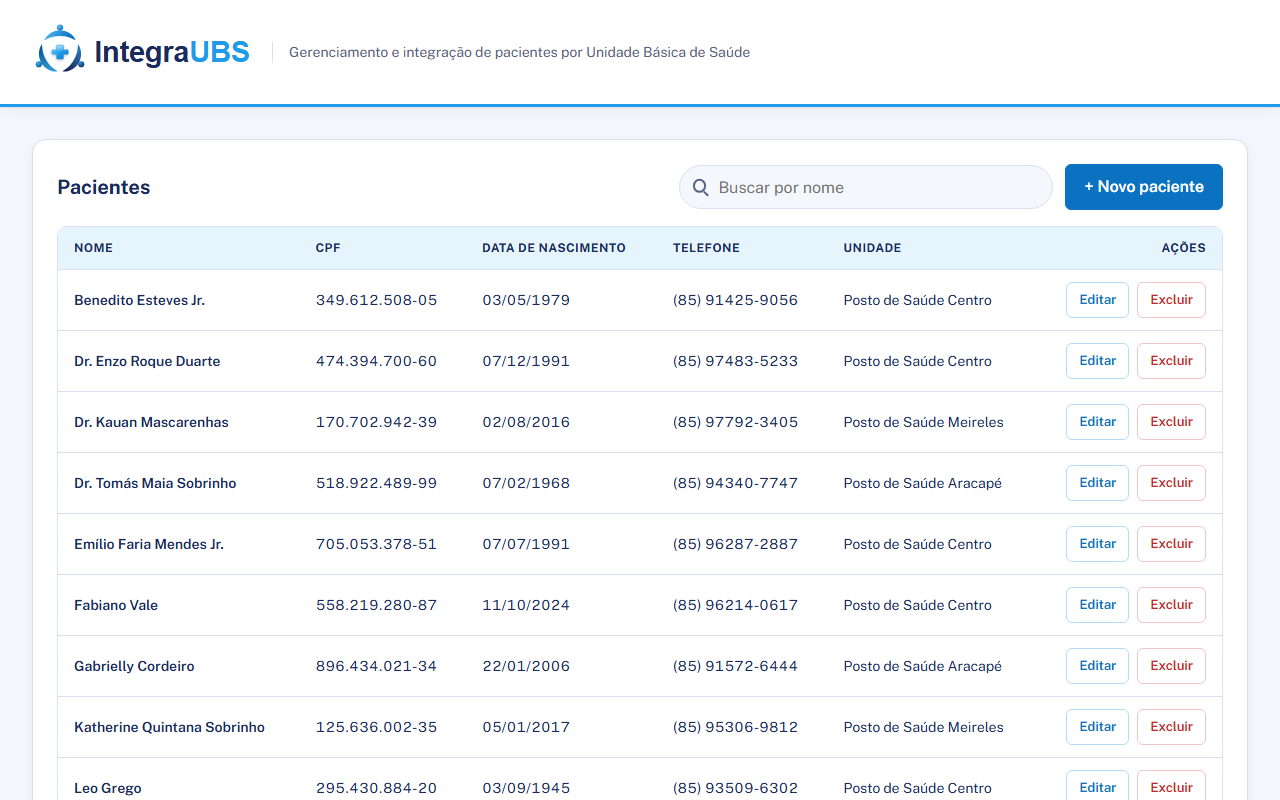
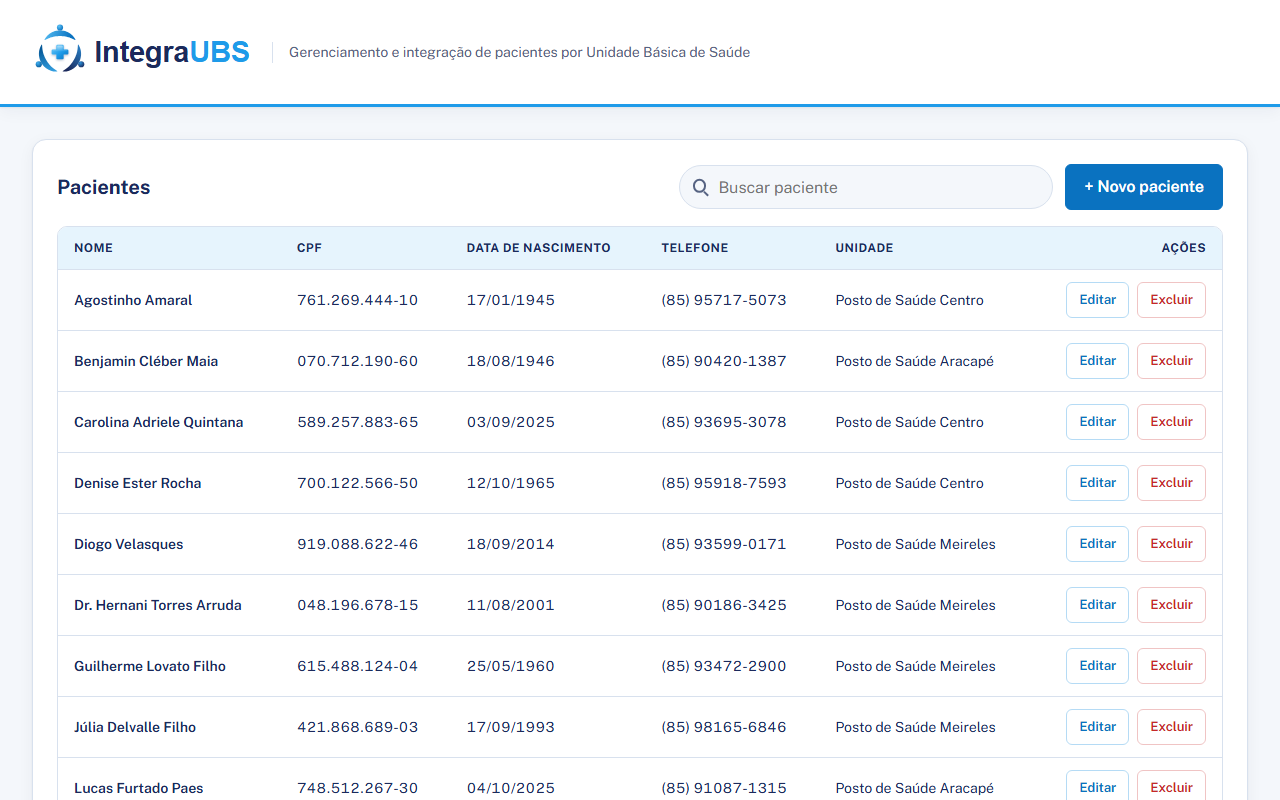
docs(readme): atualiza print, testes, clone

diff --git a/README.md b/README.md
@@ -23,8 +23,21 @@ O backend é uma API em Laravel que responde em JSON. O frontend é HTML, CSS e 
 
 1. Clone o repositório e instale as dependências:
 
+Por HTTPS:
+
+```bash
+git clone https://github.com/Pedro-HS-Rodrigues/IntegraUBS-Desafio-ConectaSUS.git
+```
+
+Ou por SSH, se você tiver uma chave SSH cadastrada no GitHub:
+
 ```bash
 git clone git@github.com:Pedro-HS-Rodrigues/IntegraUBS-Desafio-ConectaSUS.git
+```
+
+Depois:
+
+```bash
 cd IntegraUBS-Desafio-ConectaSUS
 composer install
 ```
@@ -141,12 +154,6 @@ As consultas pedidas no desafio estão em `sql/consultas.sql`:
 2. total de pacientes por unidade, inclusive as que não têm paciente (`LEFT JOIN` com `GROUP BY`);
 3. pacientes cujo nome contém um termo (`LIKE`).
 
-Para executar no terminal:
-
-```bash
-mysql -u root -p integraubs < sql/consultas.sql
-```
-
 ## Como o código está organizado
 
 - `routes/api.php`: rotas da API.
@@ -163,7 +170,7 @@ mysql -u root -p integraubs < sql/consultas.sql
 php artisan test
 ```
 
-São 46 testes. Eles usam SQLite em memória, então não mexem no seu banco.
+São 48 testes. Eles usam SQLite em memória, então não mexem no seu banco.
 
 ## O que está funcionando
 
